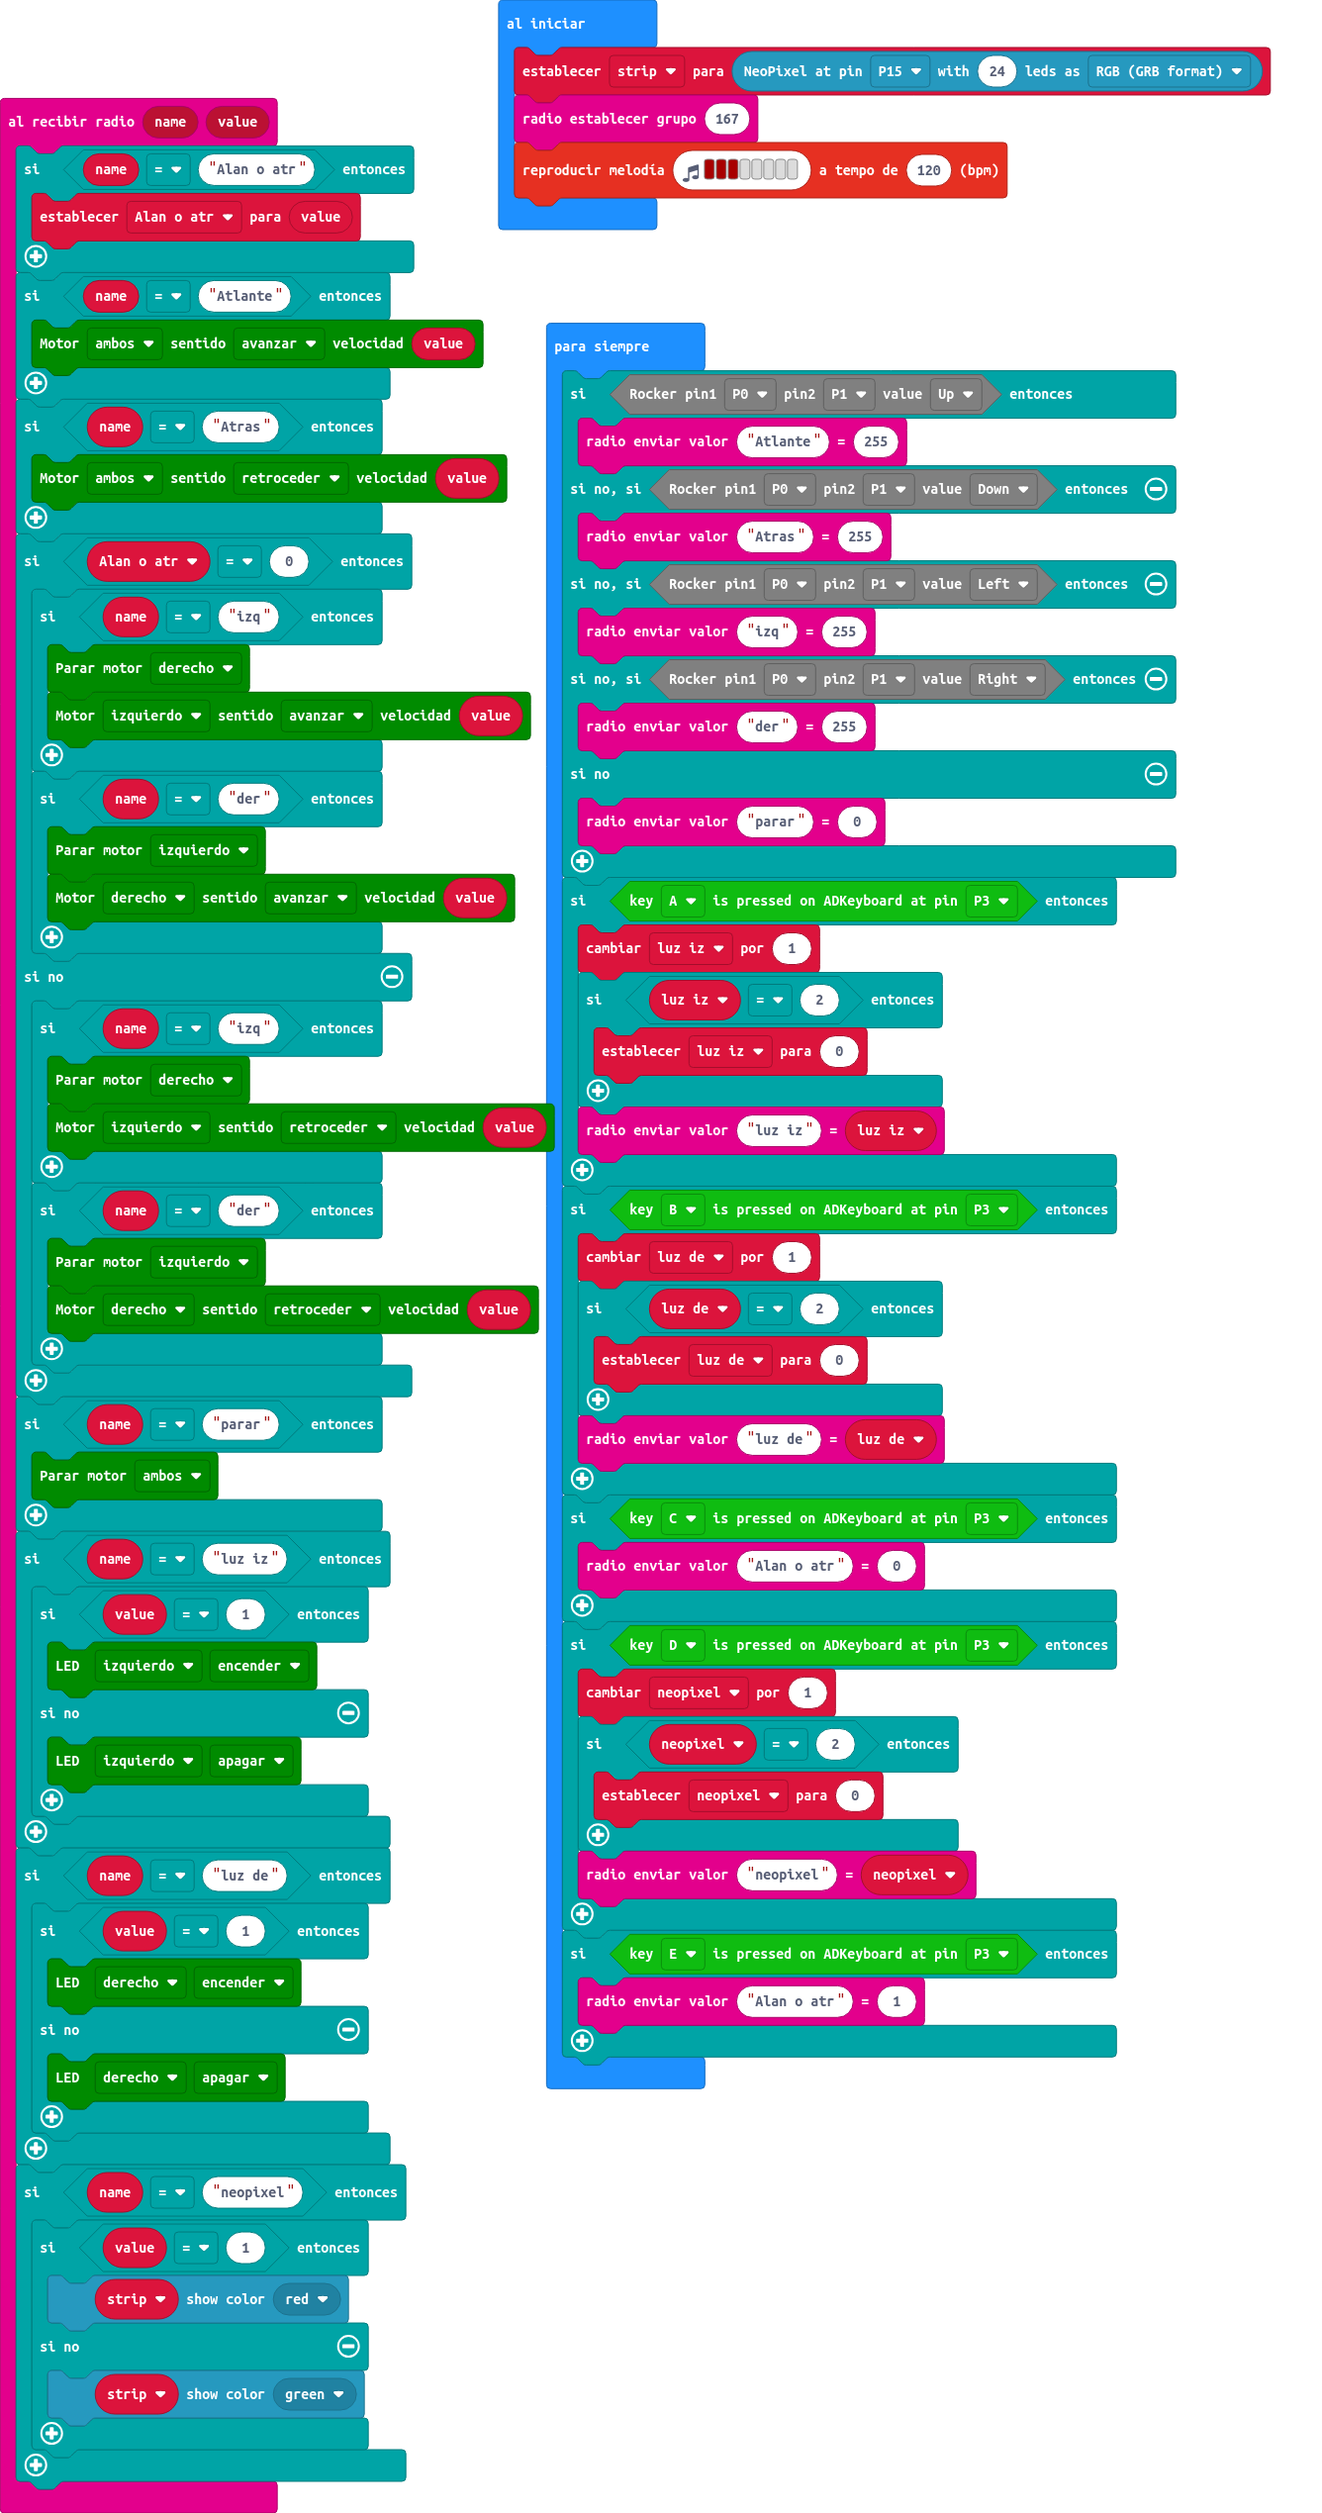
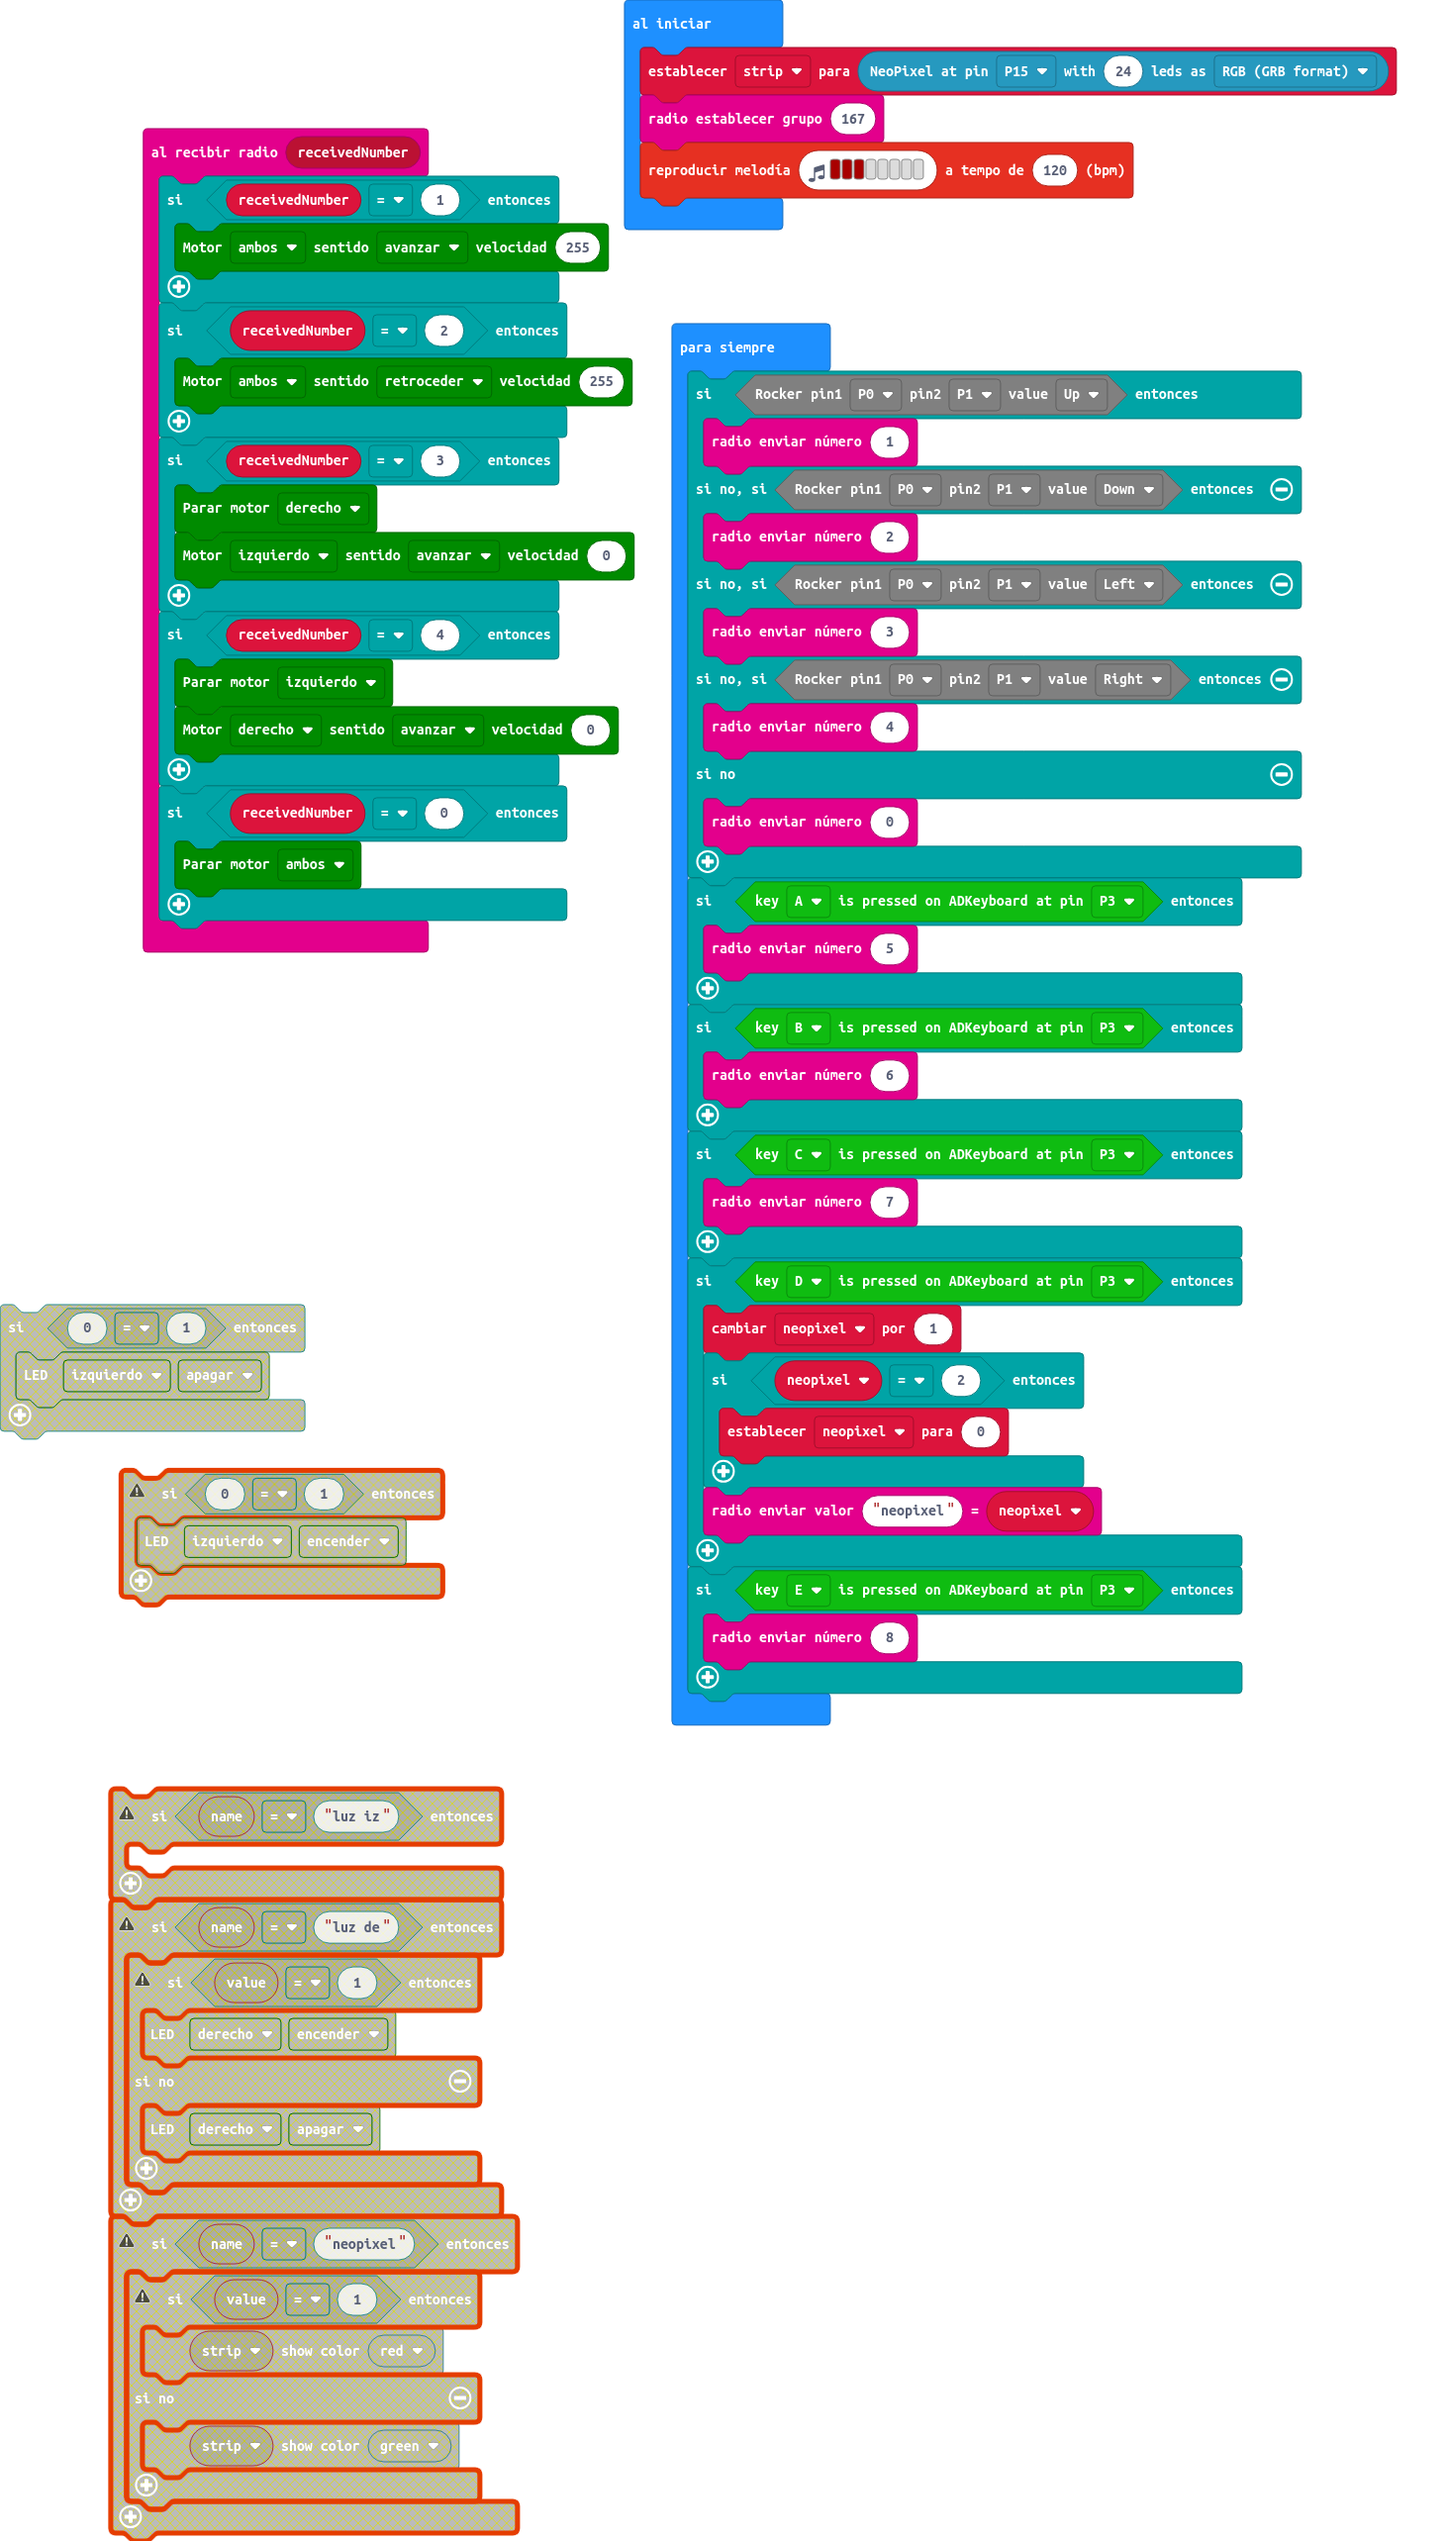
Actualizar main.blocks, main.ts

diff --git a/main.ts b/main.ts
@@ -1,93 +1,46 @@
-radio.onReceivedValue(function (name, value) {
-    if (name == "Alan o atr") {
-        Alan_o_atr = value
+radio.onReceivedNumber(function (receivedNumber) {
+    if (receivedNumber == 1) {
+        maqueen.motorRun(maqueen.Motors.All, maqueen.Dir.CW, 255)
     }
-    if (name == "Atlante") {
-        maqueen.motorRun(maqueen.Motors.All, maqueen.Dir.CW, value)
+    if (receivedNumber == 2) {
+        maqueen.motorRun(maqueen.Motors.All, maqueen.Dir.CCW, 255)
     }
-    if (name == "Atras") {
-        maqueen.motorRun(maqueen.Motors.All, maqueen.Dir.CCW, value)
+    if (receivedNumber == 3) {
+        maqueen.motorStop(maqueen.Motors.M2)
+        maqueen.motorRun(maqueen.Motors.M1, maqueen.Dir.CW, 0)
     }
-    if (Alan_o_atr == 0) {
-        if (name == "izq") {
-            maqueen.motorStop(maqueen.Motors.M2)
-            maqueen.motorRun(maqueen.Motors.M1, maqueen.Dir.CW, value)
-        }
-        if (name == "der") {
-            maqueen.motorStop(maqueen.Motors.M1)
-            maqueen.motorRun(maqueen.Motors.M2, maqueen.Dir.CW, value)
-        }
-    } else {
-        if (name == "izq") {
-            maqueen.motorStop(maqueen.Motors.M2)
-            maqueen.motorRun(maqueen.Motors.M1, maqueen.Dir.CCW, value)
-        }
-        if (name == "der") {
-            maqueen.motorStop(maqueen.Motors.M1)
-            maqueen.motorRun(maqueen.Motors.M2, maqueen.Dir.CCW, value)
-        }
+    if (receivedNumber == 4) {
+        maqueen.motorStop(maqueen.Motors.M1)
+        maqueen.motorRun(maqueen.Motors.M2, maqueen.Dir.CW, 0)
     }
-    if (name == "parar") {
+    if (receivedNumber == 0) {
         maqueen.motorStop(maqueen.Motors.All)
-    }
-    if (name == "luz iz") {
-        if (value == 1) {
-            maqueen.writeLED(maqueen.LED.LEDRight, maqueen.LEDswitch.turnOn)
-        } else {
-            maqueen.writeLED(maqueen.LED.LEDRight, maqueen.LEDswitch.turnOff)
-        }
-    }
-    if (name == "luz de") {
-        if (value == 1) {
-            maqueen.writeLED(maqueen.LED.LEDLeft, maqueen.LEDswitch.turnOn)
-        } else {
-            maqueen.writeLED(maqueen.LED.LEDLeft, maqueen.LEDswitch.turnOff)
-        }
-    }
-    if (name == "neopixel") {
-        if (value == 1) {
-            strip.showColor(neopixel.colors(NeoPixelColors.Red))
-        } else {
-            strip.showColor(neopixel.colors(NeoPixelColors.Green))
-        }
     }
 })
 let neopixel2 = 0
-let luz_de = 0
-let luz_iz = 0
-let Alan_o_atr = 0
-let strip: neopixel.Strip = null
-strip = neopixel.create(DigitalPin.P15, 24, NeoPixelMode.RGB)
+let strip = neopixel.create(DigitalPin.P15, 24, NeoPixelMode.RGB)
 radio.setGroup(167)
 music.playMelody("C5 C5 C5 - - - - - ", 120)
 basic.forever(function () {
     if (CrocoKit_Input.Rocker(AnalogPin.P0, AnalogPin.P1, CrocoKit_Input.enRocker.Up)) {
-        radio.sendValue("Atlante", 255)
+        radio.sendNumber(1)
     } else if (CrocoKit_Input.Rocker(AnalogPin.P0, AnalogPin.P1, CrocoKit_Input.enRocker.Down)) {
-        radio.sendValue("Atras", 255)
+        radio.sendNumber(2)
     } else if (CrocoKit_Input.Rocker(AnalogPin.P0, AnalogPin.P1, CrocoKit_Input.enRocker.Left)) {
-        radio.sendValue("izq", 255)
+        radio.sendNumber(3)
     } else if (CrocoKit_Input.Rocker(AnalogPin.P0, AnalogPin.P1, CrocoKit_Input.enRocker.Right)) {
-        radio.sendValue("der", 255)
+        radio.sendNumber(4)
     } else {
-        radio.sendValue("parar", 0)
+        radio.sendNumber(0)
     }
     if (tinkercademy.ADKeyboard(ADKeys.A, AnalogPin.P3)) {
-        luz_iz += 1
-        if (luz_iz == 2) {
-            luz_iz = 0
-        }
-        radio.sendValue("luz iz", luz_iz)
+        radio.sendNumber(5)
     }
     if (tinkercademy.ADKeyboard(ADKeys.B, AnalogPin.P3)) {
-        luz_de += 1
-        if (luz_de == 2) {
-            luz_de = 0
-        }
-        radio.sendValue("luz de", luz_de)
+        radio.sendNumber(6)
     }
     if (tinkercademy.ADKeyboard(ADKeys.C, AnalogPin.P3)) {
-        radio.sendValue("Alan o atr", 0)
+        radio.sendNumber(7)
     }
     if (tinkercademy.ADKeyboard(ADKeys.D, AnalogPin.P3)) {
         neopixel2 += 1
@@ -97,6 +50,6 @@ basic.forever(function () {
         radio.sendValue("neopixel", neopixel2)
     }
     if (tinkercademy.ADKeyboard(ADKeys.E, AnalogPin.P3)) {
-        radio.sendValue("Alan o atr", 1)
+        radio.sendNumber(8)
     }
 })
